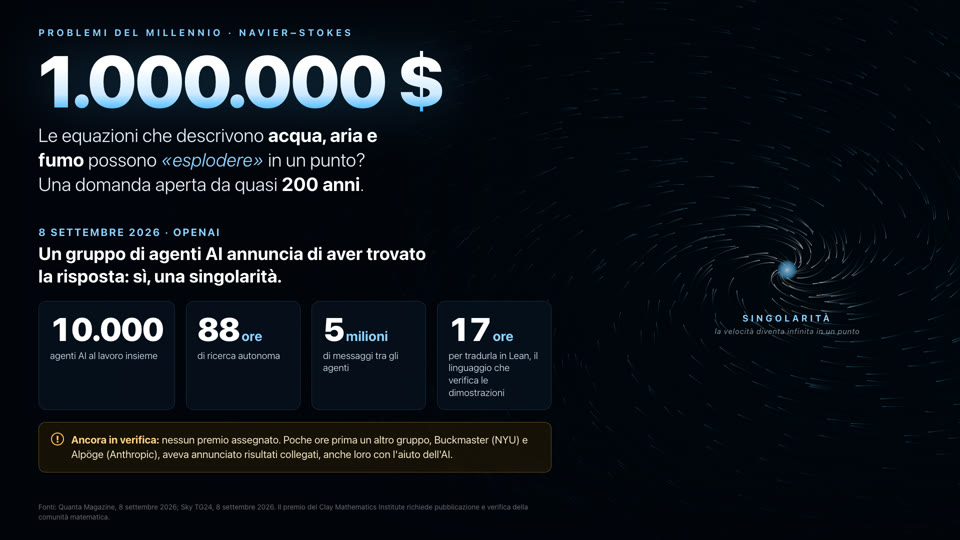
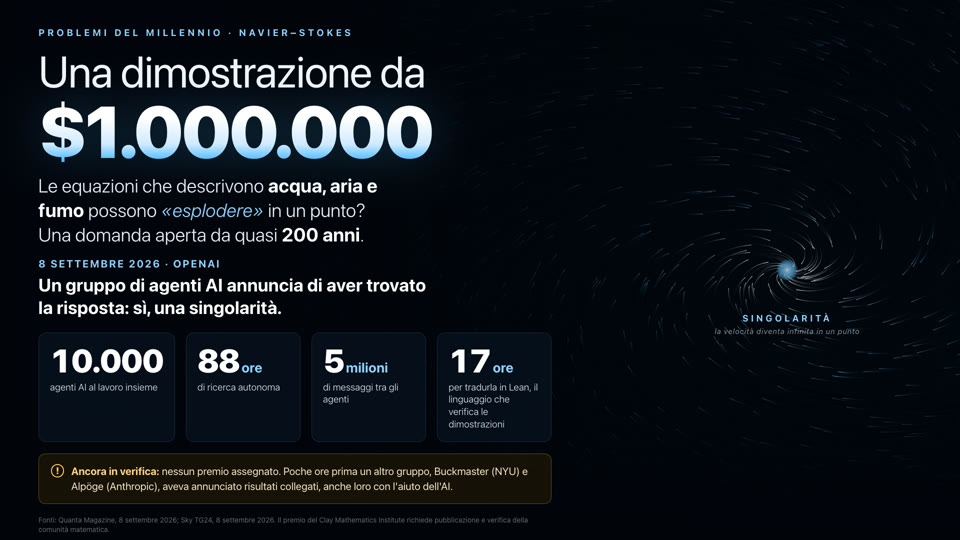
feat: slide 6 intitolata «Una dimostrazione da $1.000.000»
Titolo su due righe, «Una dimostrazione da» grande quasi quanto la cifra;
fondo più scuro in basso perché le scie del vortice non coprano le fonti.

diff --git a/millennium.html b/millennium.html
@@ -3,7 +3,7 @@
 <head>
   <meta charset="UTF-8" />
   <meta name="viewport" content="width=device-width, initial-scale=1.0" />
-  <title>Un milione di dollari — Geopolitica della AI</title>
+  <title>Una dimostrazione da $1.000.000 — Geopolitica della AI</title>
   <link rel="stylesheet" href="css/style.css" />
   <style>
     :root { --accent: #41b7ff; --accent-soft: #8fd2ff; --ink: #02040b; --panel: rgba(8,17,31,0.78); --line: rgba(143,210,255,0.16); }
@@ -15,7 +15,7 @@
     #flow { position: absolute; inset: 0; width: 100%; height: 100%; display: block; }
     .shade { position: absolute; inset: 0; pointer-events: none;
       background: linear-gradient(90deg, rgba(2,4,11,0.96) 0%, rgba(2,4,11,0.88) 38%, rgba(2,4,11,0.35) 62%, rgba(2,4,11,0.05) 100%),
-                  linear-gradient(0deg, rgba(2,4,11,0.9) 0%, rgba(2,4,11,0) 22%); }
+                  linear-gradient(0deg, rgba(2,4,11,0.98) 0%, rgba(2,4,11,0.9) 9%, rgba(2,4,11,0) 26%); }
 
     @keyframes rise { from { opacity: 0; transform: translateY(22px); } to { opacity: 1; transform: none; } }
     .content { position: absolute; inset: 0; z-index: 2; display: grid; grid-template-rows: auto auto 1fr auto;
@@ -27,6 +27,8 @@
       background: linear-gradient(180deg, #ffffff 30%, #cfe9ff 72%, var(--accent) 100%);
       -webkit-background-clip: text; background-clip: text; -webkit-text-fill-color: transparent; color: transparent;
       filter: drop-shadow(0 0 50px rgba(65,183,255,0.3)); animation: rise .9s .15s cubic-bezier(0.16,1,0.3,1) both; }
+    .pre { font-size: clamp(42px, 4.6vw, 88px); font-weight: 400; letter-spacing: -0.015em; line-height: 1; color: #f0f5fb; margin-bottom: clamp(6px, 1.2vh, 14px);
+      animation: rise .9s .1s cubic-bezier(0.16,1,0.3,1) both; }
     .q { font-size: clamp(20px, 2vw, 38px); font-weight: 300; line-height: 1.3; color: #e6ecf5; max-width: 30ch;
       animation: rise .9s .3s cubic-bezier(0.16,1,0.3,1) both; }
     .q b { color: #fff; font-weight: 700; }
@@ -68,7 +70,8 @@
     <div class="content">
       <div class="eyebrow">Problemi del Millennio · Navier–Stokes</div>
       <div>
-        <h1 class="prize">1.000.000 $</h1>
+        <div class="pre">Una dimostrazione da</div>
+        <h1 class="prize">$1.000.000</h1>
         <div class="q" style="margin-top:clamp(12px,2vh,22px)">Le equazioni che descrivono <b>acqua, aria e fumo</b> possono <i>«esplodere»</i> in un punto? Una domanda aperta da quasi <b>200 anni</b>.</div>
       </div>
 
